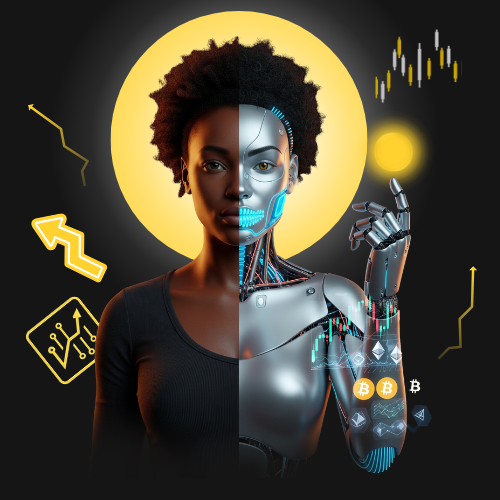
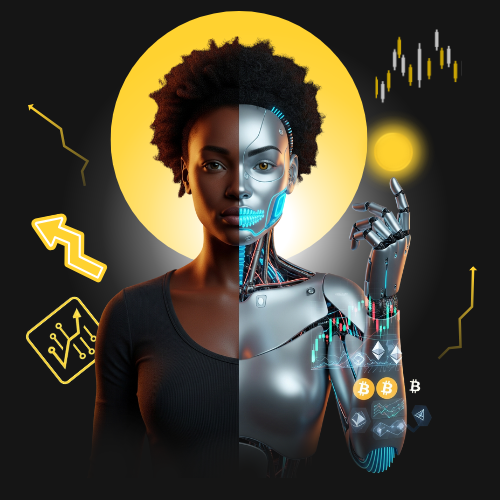
Alteração da imagem do HERO

Changed region(s): [[0.18, 0.0, 0.78, 0.36], [0.54, 0.36, 0.78, 0.57], [0.21, 0.39, 0.42, 0.6]]

diff --git a/assets/css/output.css b/assets/css/output.css
@@ -530,11 +530,6 @@
       justify-content: space-between;
     }
   }
-  .sm\:bg-red-600 {
-    @media (width >= 40rem) {
-      background-color: var(--color-red-600);
-    }
-  }
   .sm\:px-16 {
     @media (width >= 40rem) {
       padding-inline: calc(var(--spacing) * 16);
@@ -543,11 +538,6 @@
   .md\:w-4\/6 {
     @media (width >= 48rem) {
       width: calc(4/6 * 100%);
-    }
-  }
-  .md\:bg-green-400 {
-    @media (width >= 48rem) {
-      background-color: var(--color-green-400);
     }
   }
   .lg\:sticky {
@@ -630,11 +620,6 @@
   .lg\:gap-3 {
     @media (width >= 64rem) {
       gap: calc(var(--spacing) * 3);
-    }
-  }
-  .lg\:bg-\[\#151515\] {
-    @media (width >= 64rem) {
-      background-color: #151515;
     }
   }
   .lg\:bg-transparent {

diff --git a/index.html b/index.html
@@ -81,7 +81,7 @@
                 </div>
             </div>
             <div>
-                <img src="assets/img/bg_hero.gif" alt="imagem principal da hero - uma mulher humanoide" srcset="" draggable="false">
+                <img src="assets/img/bg_hero.png" alt="imagem principal da hero - uma mulher humanoide" srcset="" draggable="false">
             </div>
         </section>
 
